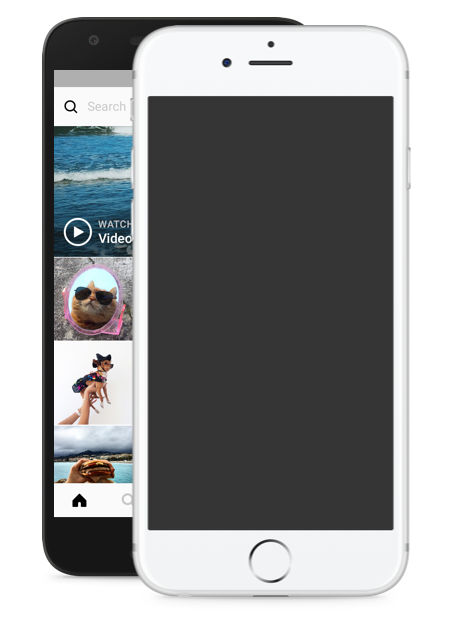
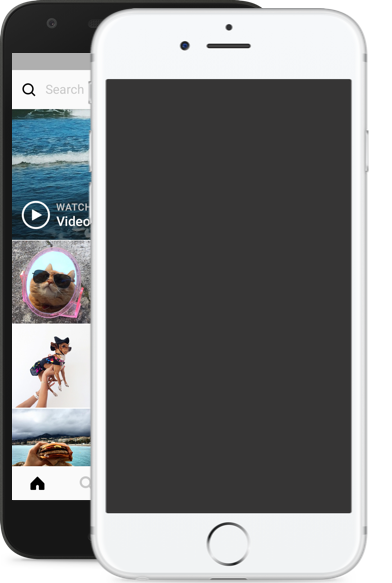
ajuste de responsividade

diff --git a/style.css b/style.css
@@ -20,12 +20,9 @@ body {
 .instagram-wrapper {
   display: flex;
   align-items: center;
-  justify-content: center;
+  justify-content: space-around;
 }
 
-.instagram-phone {
-  width: 100%;
-}
 
 .instagram-continue {
   display: flex;
@@ -105,8 +102,37 @@ body {
   padding: 0.5rem;
 }
 
-
 .app-download img {
   height: 3rem;
   width: 10rem;
+}
+
+
+/* Responsive */
+
+@media (max-width: 1024px) {
+  .instagram-wrapper {
+    width: 90%;
+  }
+}
+
+@media (max-width: 650px) {
+  body {
+    background-color: #fff;
+  }
+  .instagram-wrapper {
+    width: 90%;
+  }
+
+  .instagram-phone {
+    display: none;
+  }
+
+  .instagram-continue {
+    width: 100%;
+  }
+
+  .group {
+    border: none;
+  }
 }
